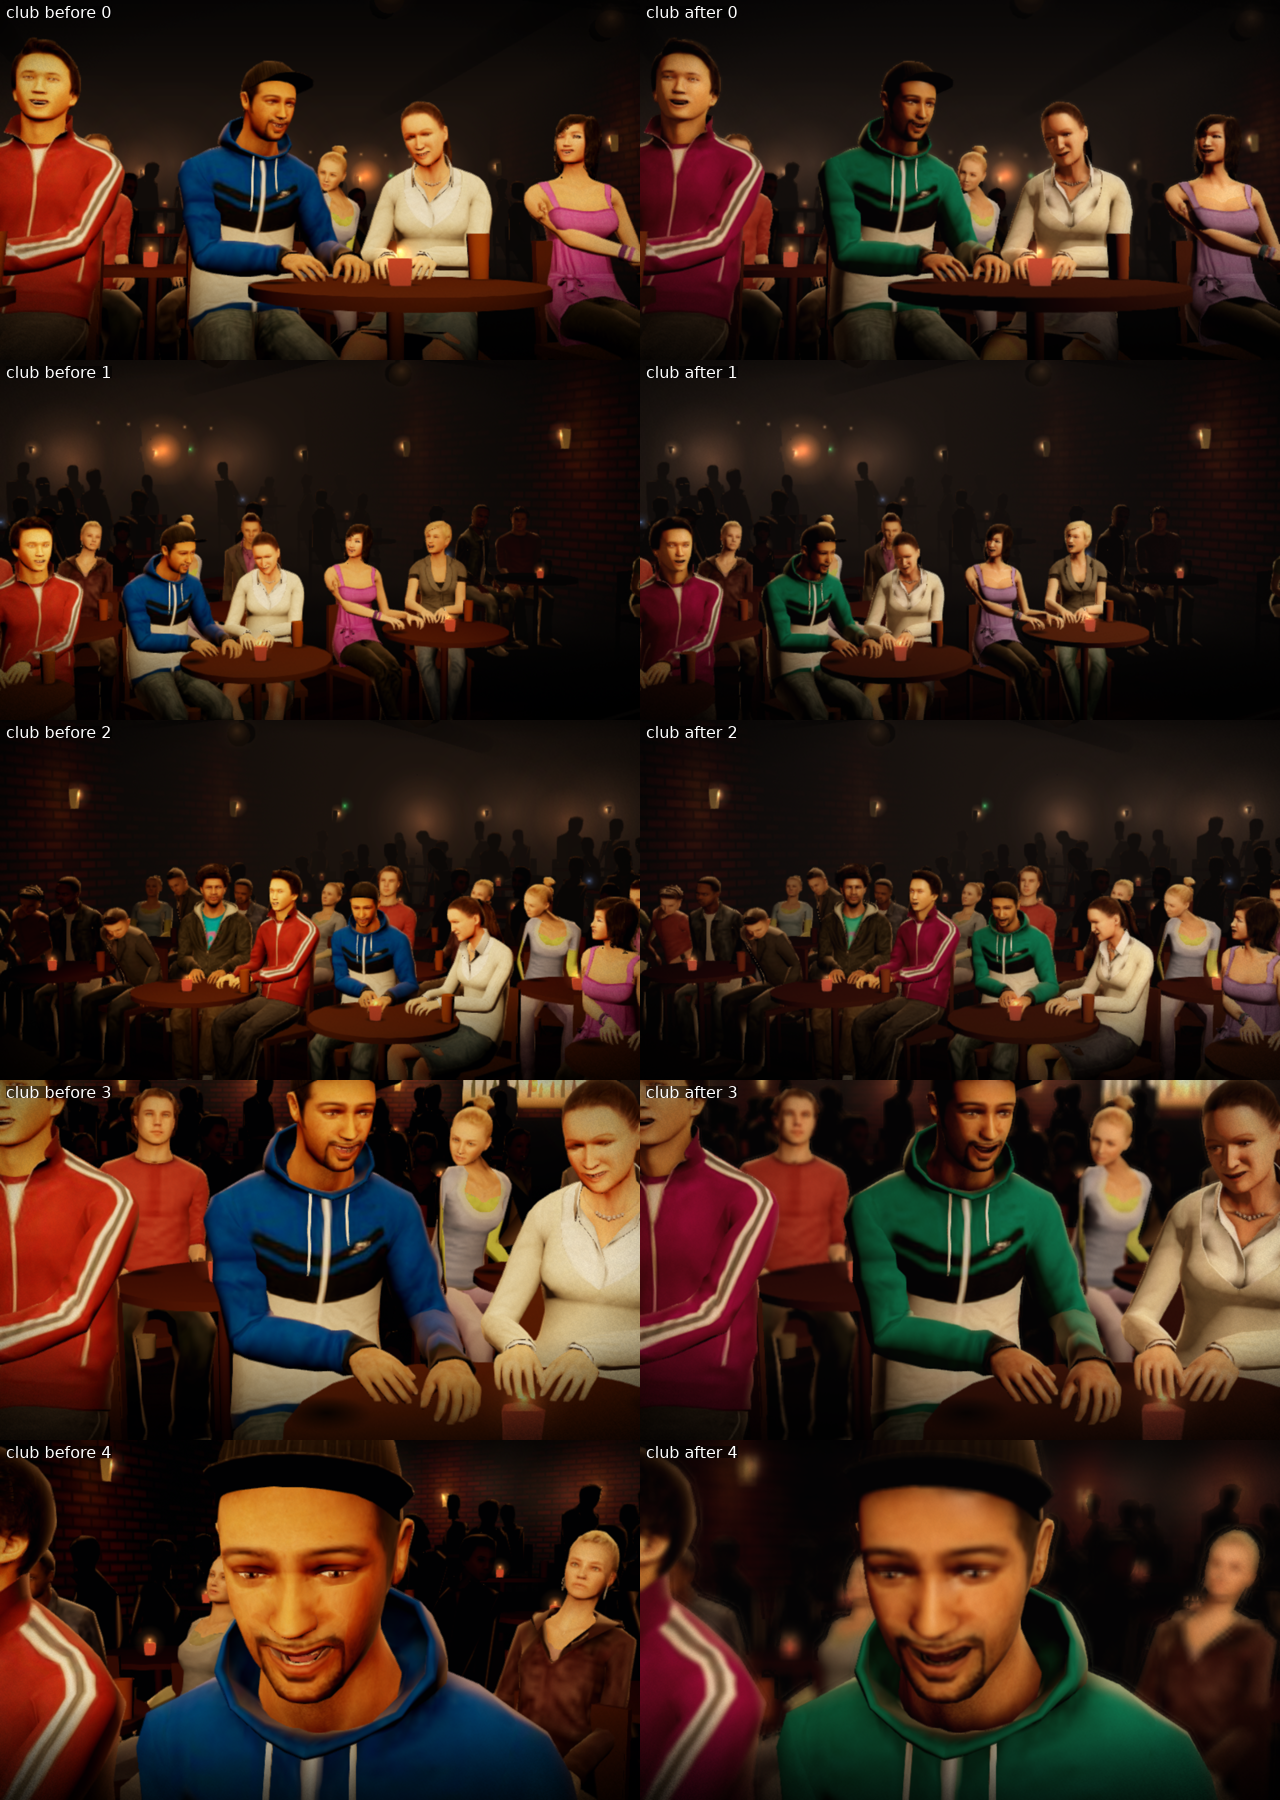
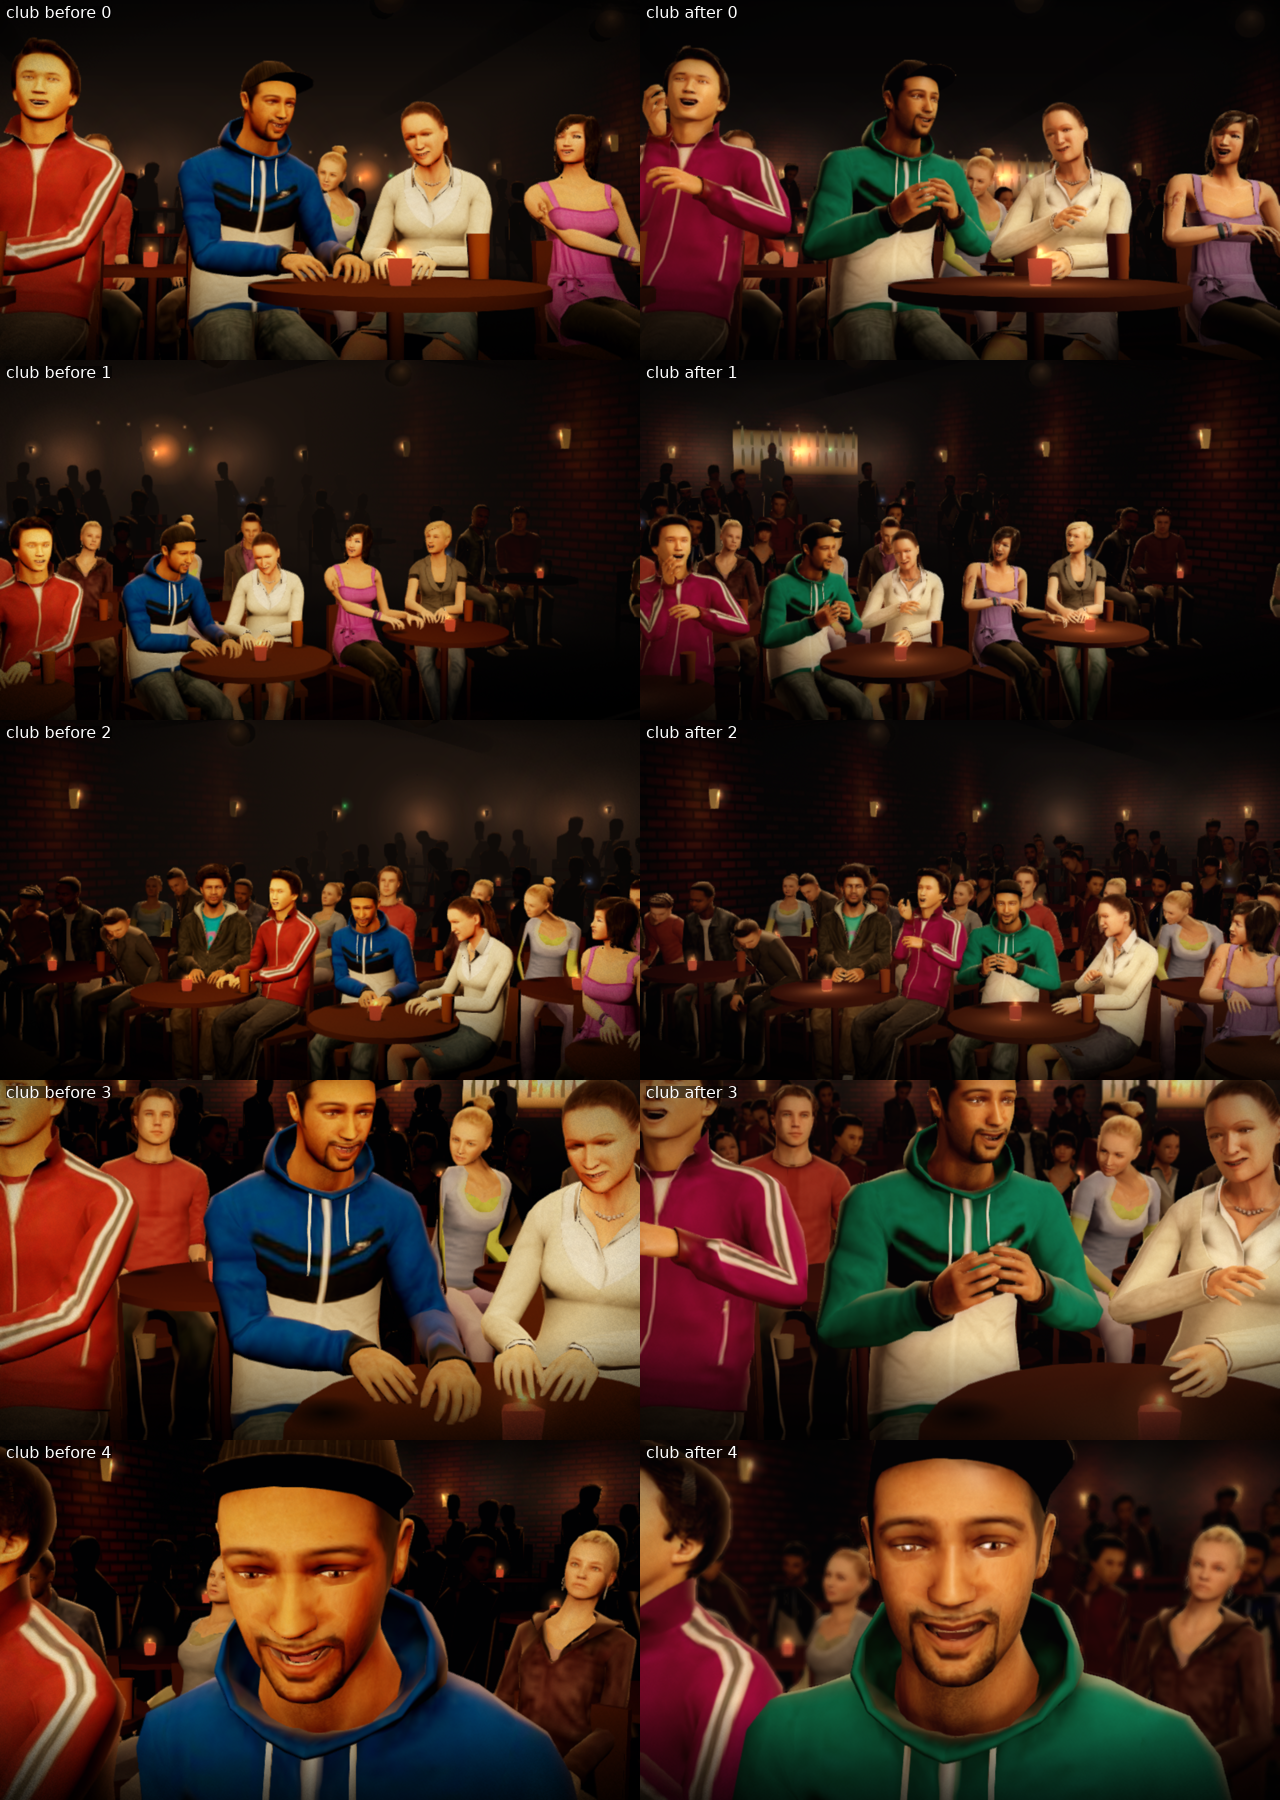
deliverables: real-v1 sheets and life-v1 frames (videos on disk; mp4 is ignored in docs)

diff --git a/docs/handoff/box-progress.md b/docs/handoff/box-progress.md
@@ -249,3 +249,8 @@ Within the judges' noise of round 14 (one judge a point lower everywhere). The f
 
 ### 2026-10-19 09:19 UTC: gates on 7c44c06 (life step 9, the theatre house)
 anatomy 0, handsweep 0, bindcheck clean, handocc 0 ×4, pack 20.2 MB, packcheck ready ×4, brightness pass ×4, edge bands 0 at both viewports in all four venues.
+
+### 2026-10-19 09:41 UTC: deliverables rendered (tree 42c44b9)
+- `docs/mockups/real-v1-<venue>.png`: before (the 18 Oct baseline) | after, five rows (three setups at the laugh's peak, a person close, a face close).
+- `docs/mockups/life-v1-<venue>.mp4` (on disk only: the repo ignores docs/**/*.mp4): 6 s, listening from t 10 then a big laugh at t 12, mid shot (top) and face close (bottom), before | after, 25 fps. Frames from it: `life-v1-<venue>-frames.png` (t 11 listening, t 13 laughing). The motion agent's strips: `life-v1-<venue>.png`.
+- The emulator clip `docs/android-emu/real-v1-2026-10-19/club-set-60s.mp4` is on disk only too.
